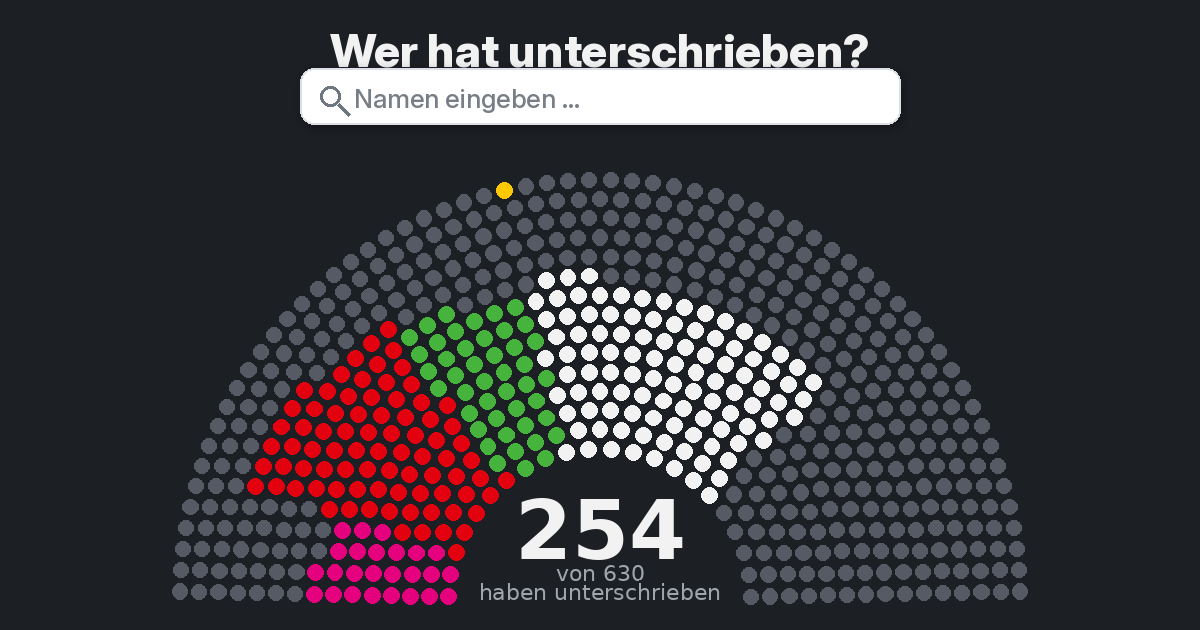
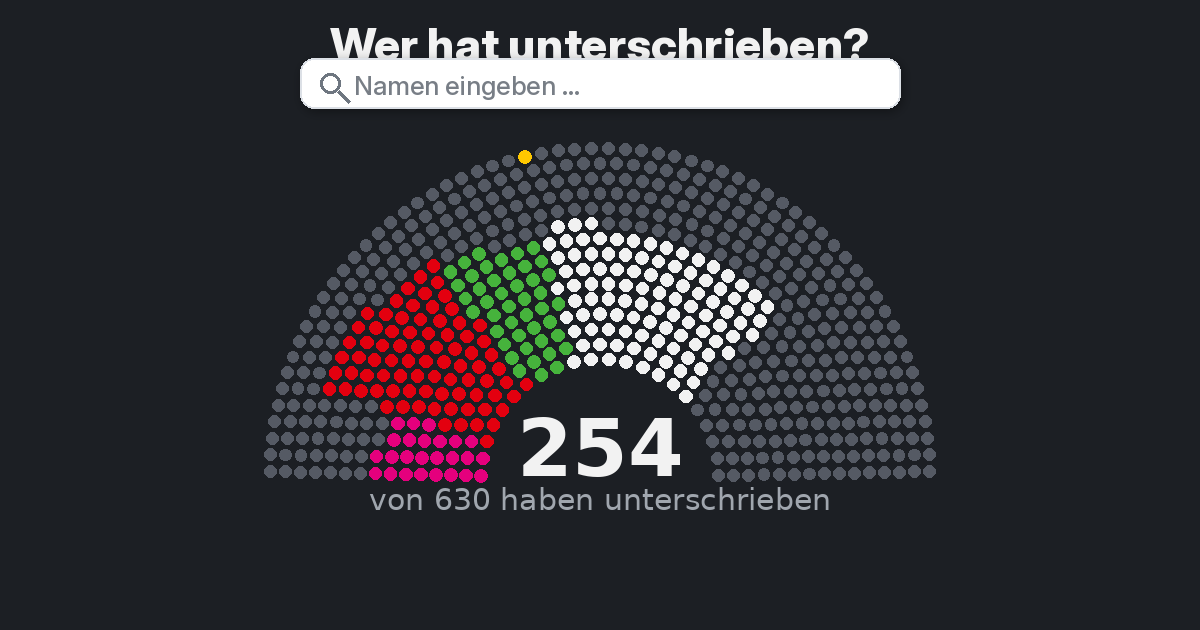
Vorschau v6: Zahl und Untertitel klar über X-Titel-Schild

Changed region(s): [[0.1233, 0.0302, 0.8633, 0.9651]]

diff --git a/index.html b/index.html
@@ -7,12 +7,12 @@
 <meta name="description" content="254 von 630 Abgeordneten haben den Gesetzentwurf zur Widerspruchslösung (Drs. 21/7570) unterschrieben. Wer? Einen Namen eingeben und sofort sehen."/>
 <meta property="og:title" content="Abgeordneten-Check Organspende"/>
 <meta property="og:description" content="254 von 630 Abgeordneten haben den Gesetzentwurf zur Widerspruchslösung (Drs. 21/7570) unterschrieben. Wer? Einen Namen eingeben und sofort sehen."/>
-<meta property="og:image" content="https://franksteppat.github.io/organspende/vorschau.png?v=5"/>
+<meta property="og:image" content="https://franksteppat.github.io/organspende/vorschau.png?v=6"/>
 <meta property="og:url" content="https://franksteppat.github.io/organspende/"/>
 <meta name="twitter:card" content="summary_large_image"/>
 <meta name="twitter:title" content="Abgeordneten-Check Organspende"/>
 <meta name="twitter:description" content="254 von 630 Abgeordneten haben den Gesetzentwurf zur Widerspruchslösung (Drs. 21/7570) unterschrieben. Wer? Einen Namen eingeben und sofort sehen."/>
-<meta name="twitter:image" content="https://franksteppat.github.io/organspende/vorschau.png?v=5"/>
+<meta name="twitter:image" content="https://franksteppat.github.io/organspende/vorschau.png?v=6"/>
 <style>
 :root {
   --bg: #1C1F24;
